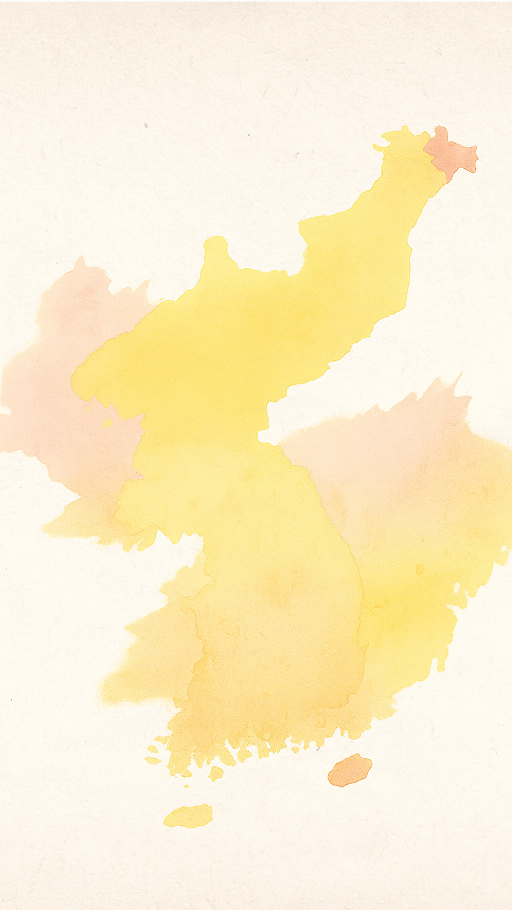
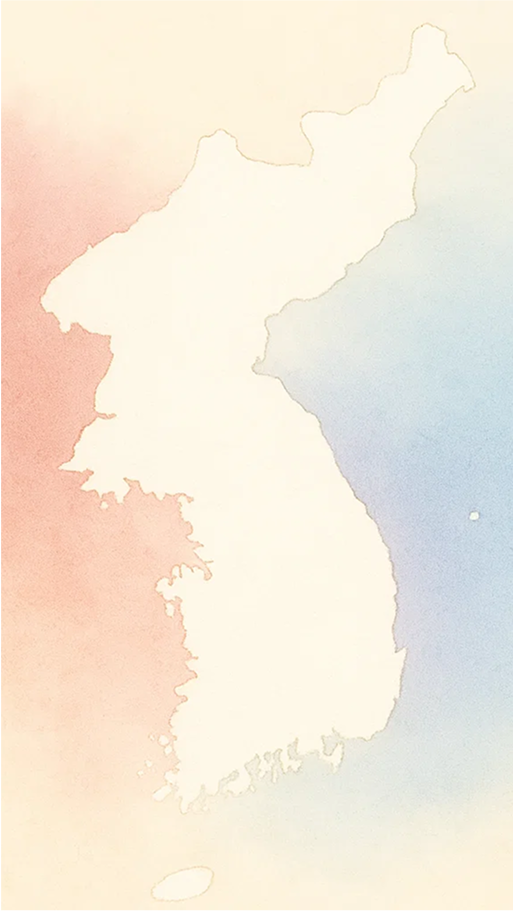
제목, 설명, 썸네일

diff --git a/src/pages/ResultPage/ResultPage.tsx b/src/pages/ResultPage/ResultPage.tsx
@@ -95,11 +95,11 @@ const ResultPage = () => {
       kakao.Link.sendDefault({
         objectType: "feed",
         content: {
-          title: "무궁화 꽃이 피었습니다",
+          title: "광복 80주년 기념 헌화 캠페인",
           description:
-            "당신의 무궁화가 피었습니다. 이 순간을 함께 나누어보세요.",
+            "월 15일, 무궁화 꽃이 피었습니다. 당신의 무궁화를 심어주세요.",
           // imageUrl: "",
-          imageUrl: "https://i.imgur.com/9EoYc97.png",
+          imageUrl: "https://i.imgur.com/5cFbxtZ.png",
           link: {
             mobileWebUrl: window.location.hostname,
             webUrl: window.location.hostname,

diff --git a/index.html b/index.html
@@ -11,11 +11,11 @@
     />
     <meta
       property="og:title"
-      content="무궁화 꽃이 피었습니다 — 2025 광복 80주년"
+      content="무궁화 꽃이 피었습니다 — 광복 80주년 기념 헌화 캠페인"
     />
     <meta
       property="og:description"
-      content="대한민국 지도에 당신의 무궁화를 심고, 감사의 편지를 남겨주세요."
+      content="8월 15일, 무궁화 꽃이 피었습니다. 당신의 무궁화를 심어주세요."
     />
     <meta property="og:url" content="https://mugunghwa-re.netlify.app/" />
     <meta property="og:image" content="/main_image.png" />
